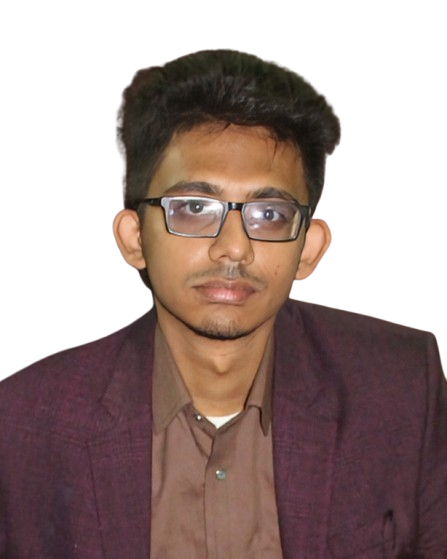
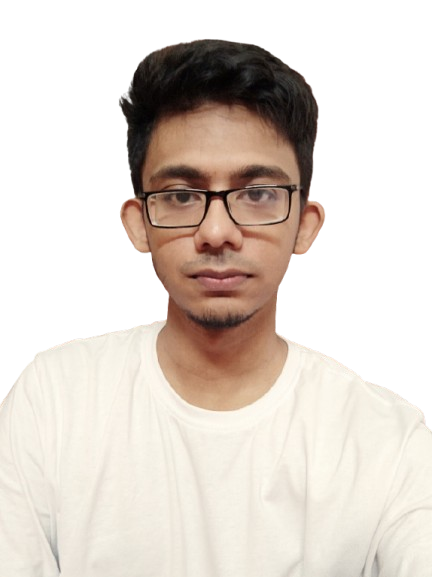
Reverted images
Replaced 'about.jpg' and 'perfil.png' with new versions.

diff --git a/assets/scss/styles.scss b/assets/scss/styles.scss
@@ -9,7 +9,7 @@
     /*===== Colores =====*/
     /*Purple 260 - Red 355 - Blue 224 - Pink 340*/
     /* HSL color mode */
-    --hue-color: 224;
+    --hue-color: 370;
     --first-color: hsl(var(--hue-color), 89%, 60%);
     --second-color: hsl(var(--hue-color), 56%, 12%);
 
